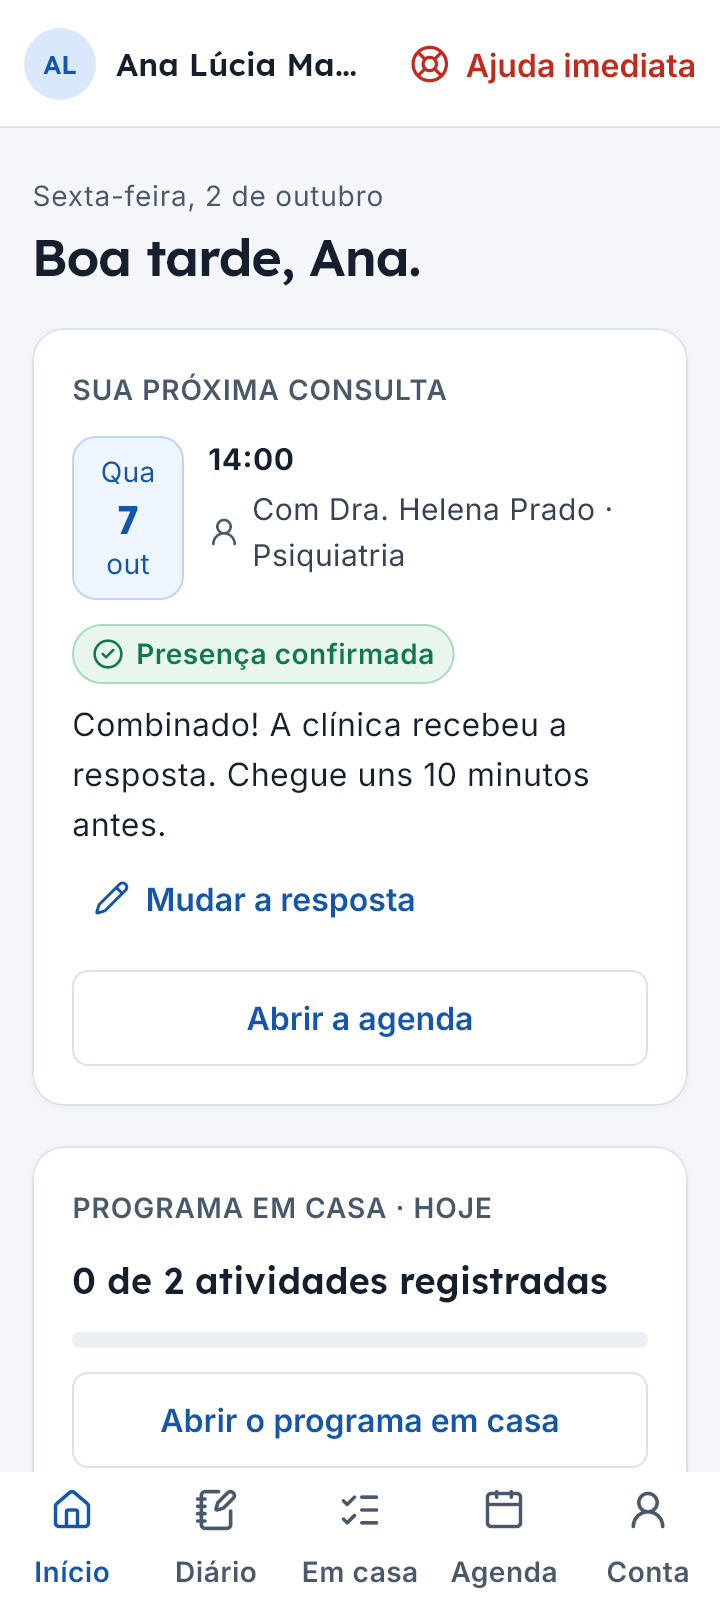
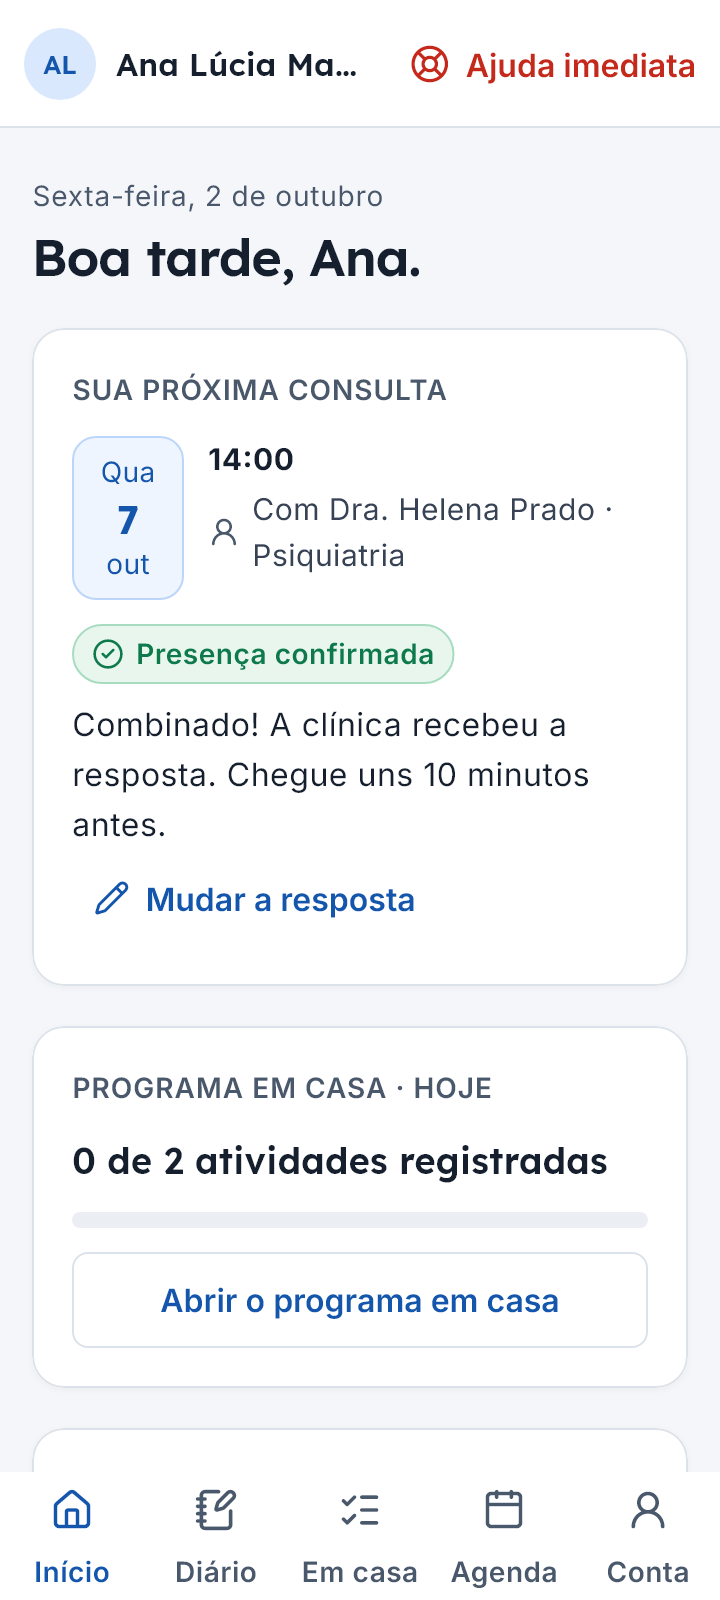
feat(presenca): depois de confirmar só resta avisar que não vão, como no portal
A capacidade mudarPresenca (Terae local: desligada) tira "Mudar a resposta":
confirmada, só "Avisar que não vamos"; avisada, nenhum botão. "Abrir a
agenda" só aparece quando a sessão não aceita mais resposta.

Changed region(s): [[0.0917, 0.7188, 0.8556, 0.8438], [0.0917, 0.625, 0.7028, 0.6875], [0.2139, 0.875, 0.7944, 0.9062]]

diff --git a/test/funcionalidades/paciente/sessoes_test.dart b/test/funcionalidades/paciente/sessoes_test.dart
@@ -7,6 +7,7 @@ import 'package:flutter/material.dart';
 import 'package:flutter_test/flutter_test.dart';
 import 'package:terae_app/dados/enums/resposta_presenca.dart';
 import 'package:terae_app/dados/enums/situacao_envio.dart';
+import 'package:terae_app/dados/repositorios/repositorios.dart';
 import 'package:terae_app/dados/sincronizacao/situacao_sincronizacao.dart';
 import 'package:terae_app/nucleo/rotas/rotas.dart';
 
@@ -55,7 +56,10 @@ void main() {
         find.descendant(of: cartao, matching: find.text('Presença confirmada')),
         findsOneWidget,
       );
-      await tocar(tester, find.byKey(const Key('abrir-a-agenda')));
+      // "Abrir a agenda" é só para a sessão que não aceita mais resposta
+      // (como no portal): enquanto dá para responder, não aparece.
+      expect(find.byKey(const Key('abrir-a-agenda')), findsNothing);
+      await tocar(tester, find.byKey(const Key('aba-agenda')));
       expect(find.byKey(const Key('TM18')), findsOneWidget);
       expect(find.text('Presença confirmada'), findsOneWidget);
       expect(
@@ -97,6 +101,57 @@ void main() {
         findsOneWidget,
         reason: 'o Início relê a resposta ao voltar',
       );
+    });
+
+    testWidgets('no Terae local, depois de confirmar só resta "Avisar que não '
+        'vamos"; depois do aviso, nenhum botão (a API não deixa voltar)', (
+      tester,
+    ) async {
+      await abrirComMemoria(
+        tester,
+        persona: Persona.patricia,
+        em: Rotas.entrarPerfil,
+        capacidades: CapacidadesDaFonte.teraeLocal,
+      );
+      await tocar(tester, find.text('Miguel Andrade Neves'));
+      final cartao = find.byKey(const Key('proxima-consulta'));
+      await tocar(tester, find.byKey(Key('vamos-$_sessaoMiguel')));
+      expect(
+        find.descendant(of: cartao, matching: find.text('Presença confirmada')),
+        findsOneWidget,
+      );
+      // Sem "Mudar a resposta": o botão de avisar já está ali, e o de
+      // confirmar (que a API recusaria com 409) não volta.
+      expect(find.byKey(Key('mudar-$_sessaoMiguel')), findsNothing);
+      expect(find.byKey(Key('vamos-$_sessaoMiguel')), findsNothing);
+      expect(find.byKey(Key('nao-vamos-$_sessaoMiguel')), findsOneWidget);
+      expect(find.byKey(const Key('abrir-a-agenda')), findsNothing);
+
+      await tocar(tester, find.byKey(Key('nao-vamos-$_sessaoMiguel')));
+      expect(find.text('Avisar que vocês não vêm?'), findsOneWidget);
+      await tocar(tester, find.byKey(const Key('avisar-a-clinica')));
+      expect(
+        find.descendant(
+          of: cartao,
+          matching: find.text('Avisaram que não vão'),
+        ),
+        findsOneWidget,
+      );
+      expect(
+        find.textContaining('Obrigado por avisar. A recepção vai ligar'),
+        findsOneWidget,
+      );
+      expect(find.byKey(Key('mudar-$_sessaoMiguel')), findsNothing);
+      expect(find.byKey(Key('vamos-$_sessaoMiguel')), findsNothing);
+      expect(find.byKey(Key('nao-vamos-$_sessaoMiguel')), findsNothing);
+    });
+
+    testWidgets('no Firebase (D27) continua "Mudar a resposta" depois do '
+        'aviso', (tester) async {
+      await _comoMiguel(tester, em: Rotas.pacienteInicio);
+      await tocar(tester, find.byKey(Key('nao-vamos-$_sessaoMiguel')));
+      await tocar(tester, find.byKey(const Key('avisar-a-clinica')));
+      expect(find.byKey(Key('mudar-$_sessaoMiguel')), findsOneWidget);
     });
 
     testWidgets('o titular vê "Falta confirmar" e depois "Presença '

diff --git a/lib/funcionalidades/paciente/sessoes/componentes_sessao.dart b/lib/funcionalidades/paciente/sessoes/componentes_sessao.dart
@@ -14,6 +14,7 @@ import '../../../nucleo/tempo/relogio.dart';
 import '../../../nucleo/textos/encontros.dart';
 import '../../../nucleo/widgets/botao_grande.dart';
 import '../../../nucleo/widgets/cartao.dart';
+import '../../capacidades.dart';
 
 /// As três primeiras letras com a primeira em maiúscula: `Qui`, `Sáb`.
 String _curto(String nome, {required bool maiuscula}) {
@@ -278,6 +279,7 @@ class RespostasDaSessao extends StatelessWidget {
     final a = agendamento;
     final r = resposta;
     final textos = Theme.of(context).textTheme;
+    final mudarPresenca = capacidadesDaFonte(context).mudarPresenca;
     return Column(
       crossAxisAlignment: CrossAxisAlignment.stretch,
       children: [
@@ -333,7 +335,7 @@ class RespostasDaSessao extends StatelessWidget {
               style: textos.bodyMedium,
             ),
           ),
-          if (podeMudar)
+          if (podeMudar && mudarPresenca)
             Align(
               alignment: Alignment.centerLeft,
               child: TextButton.icon(
@@ -342,7 +344,19 @@ class RespostasDaSessao extends StatelessWidget {
                 icon: const Icon(LucideIcons.pencil, size: 18),
                 label: const Text('Mudar a resposta'),
               ),
+            )
+          else if (podeMudar && r.resposta == RespostaPresenca.vamos) ...[
+            // Como no portal: confirmada, só resta avisar que não vão.
+            const SizedBox(height: 8),
+            BotaoGrande(
+              key: Key('nao-vamos-${a.id}'),
+              rotulo: 'Avisar que não vamos',
+              variante: VarianteBotao.secundario,
+              aoTocar: ocupado
+                  ? null
+                  : () => unawaited(_perguntarAntesDeAvisar(context)),
             ),
+          ],
         ],
         if (erro != null) ...[
           const SizedBox(height: 8),

diff --git a/test/funcionalidades/paciente/paridade_sessao_test.dart b/test/funcionalidades/paciente/paridade_sessao_test.dart
@@ -169,6 +169,30 @@ void main() {
     });
   });
 
+  group('Início: "Abrir a agenda" só quando a sessão não aceita resposta', () {
+    testWidgets('sessão que já começou: sem botões de resposta e com o '
+        'caminho à agenda', (tester) async {
+      // Uma hora antes do "agora" dos testes: D27, não dá mais para responder.
+      final paciente = PacienteComDados(
+        consulta: _em('ag-1', agoraDeTeste.subtract(const Duration(hours: 1))),
+      );
+      await abrirAppDoPaciente(tester, paciente: paciente);
+      expect(find.byKey(const Key('vamos-ag-1')), findsNothing);
+      expect(find.byKey(const Key('nao-vamos-ag-1')), findsNothing);
+      expect(find.byKey(const Key('abrir-a-agenda')), findsOneWidget);
+    });
+
+    testWidgets('sessão que aceita resposta: os botões, sem o caminho à '
+        'agenda', (tester) async {
+      final paciente = PacienteComDados(
+        consulta: _em('ag-2', instanteNaClinica(2026, 10, 7, 14)),
+      );
+      await abrirAppDoPaciente(tester, paciente: paciente);
+      expect(find.byKey(const Key('vamos-ag-2')), findsOneWidget);
+      expect(find.byKey(const Key('abrir-a-agenda')), findsNothing);
+    });
+  });
+
   group('Falar com a clínica: o telefone vem do paciente', () {
     testWidgets('com o telefone do /eu: Ligar para ele, sem WhatsApp nem '
         '"fictício"', (tester) async {

diff --git a/lib/dados/repositorios/repositorios.dart b/lib/dados/repositorios/repositorios.dart
@@ -91,6 +91,7 @@ class CapacidadesDaFonte {
     required this.ocupacaoDaAtividade,
     required this.demonstracao,
     this.programaDoCuidador = false,
+    this.mudarPresenca = true,
   });
 
   /// Firebase acadêmico e memória de demonstração.
@@ -104,6 +105,7 @@ class CapacidadesDaFonte {
     ocupacaoDaAtividade: true,
     demonstracao: true,
     programaDoCuidador: false,
+    mudarPresenca: true,
   );
 
   /// Terae local (API `/api/portal/*`): sem metas nem marcos (Jornada), sem a
@@ -122,6 +124,7 @@ class CapacidadesDaFonte {
     ocupacaoDaAtividade: false,
     demonstracao: false,
     programaDoCuidador: true,
+    mudarPresenca: false,
   );
 
   /// O cuidador vê o programa em casa e registra o dia, como no portal
@@ -130,6 +133,12 @@ class CapacidadesDaFonte {
   /// desligado lá; o Início do cuidador passa a ser o da família e a moldura
   /// ganha a aba "Em casa".
   final bool programaDoCuidador;
+
+  /// "Mudar a resposta" de presença (D27): voltar atrás de uma resposta já
+  /// dada. A API do portal não deixa (depois de avisar que não vai, confirmar
+  /// de novo é 409): lá, depois de confirmar só resta "Avisar que não vamos"
+  /// e, depois do aviso, nenhum botão, como no portal.
+  final bool mudarPresenca;
 
   /// Diário entre consultas (TM03–TM05, TM13, TM14).
   final bool diario;

diff --git a/lib/funcionalidades/paciente/inicio/inicio_tela.dart b/lib/funcionalidades/paciente/inicio/inicio_tela.dart
@@ -540,7 +540,9 @@ class _ProximaConsulta extends StatelessWidget {
                   ),
                 ),
               ),
-            if (!controlador.perguntando) ...[
+            // Como no portal: "Abrir a agenda" só quando a sessão não aceita
+            // mais resposta (já começou, cancelada, ou sem presença).
+            if (!controlador.podeResponderNaProxima) ...[
               const SizedBox(height: 12),
               BotaoGrande(
                 key: const Key('abrir-a-agenda'),
